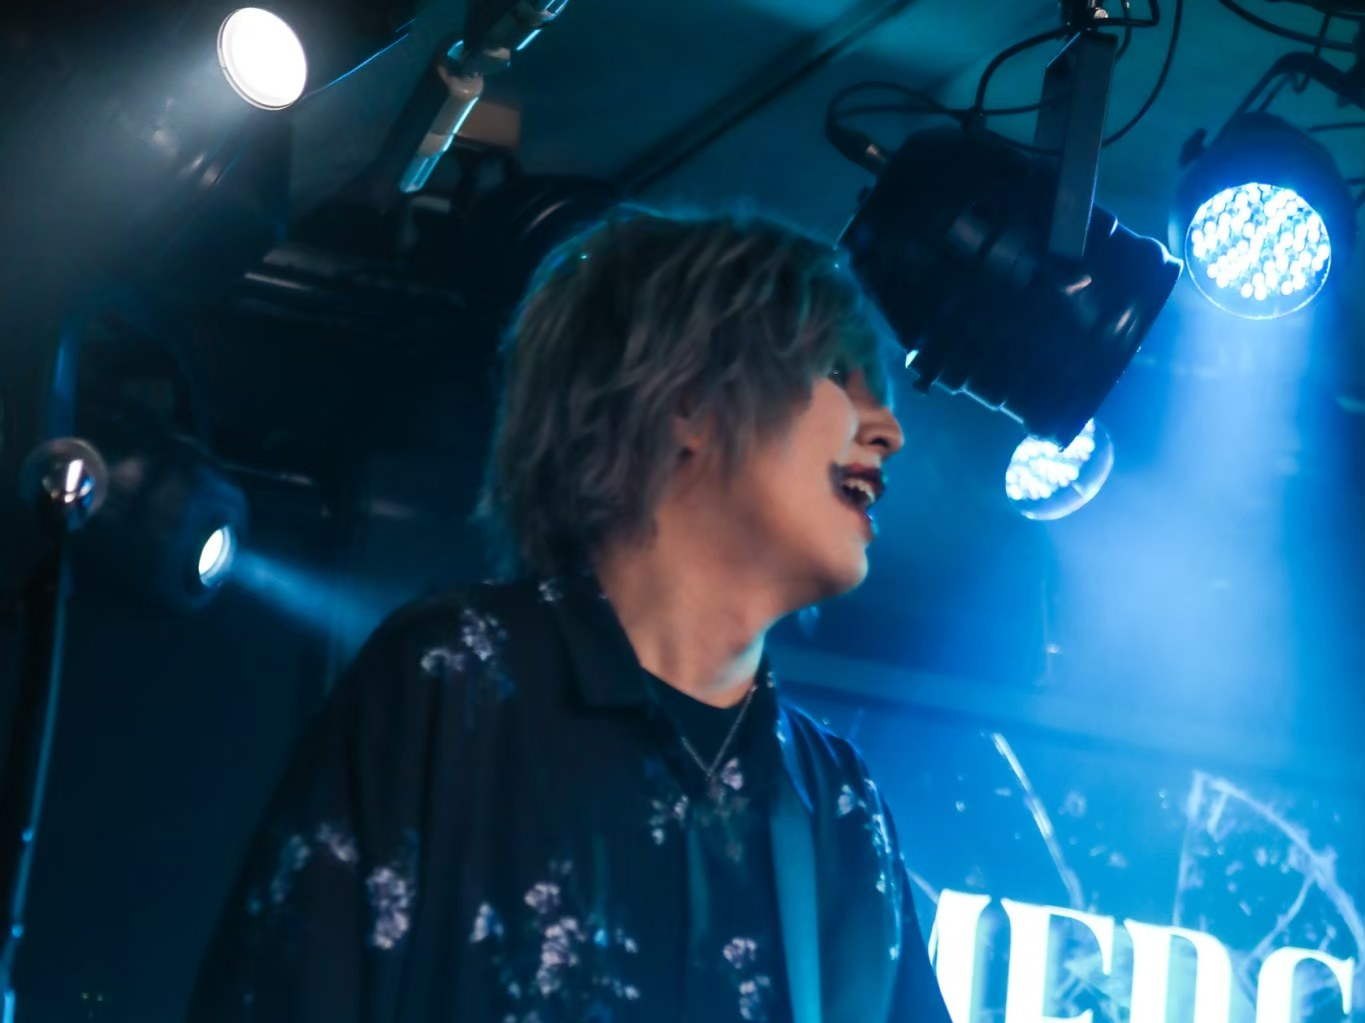
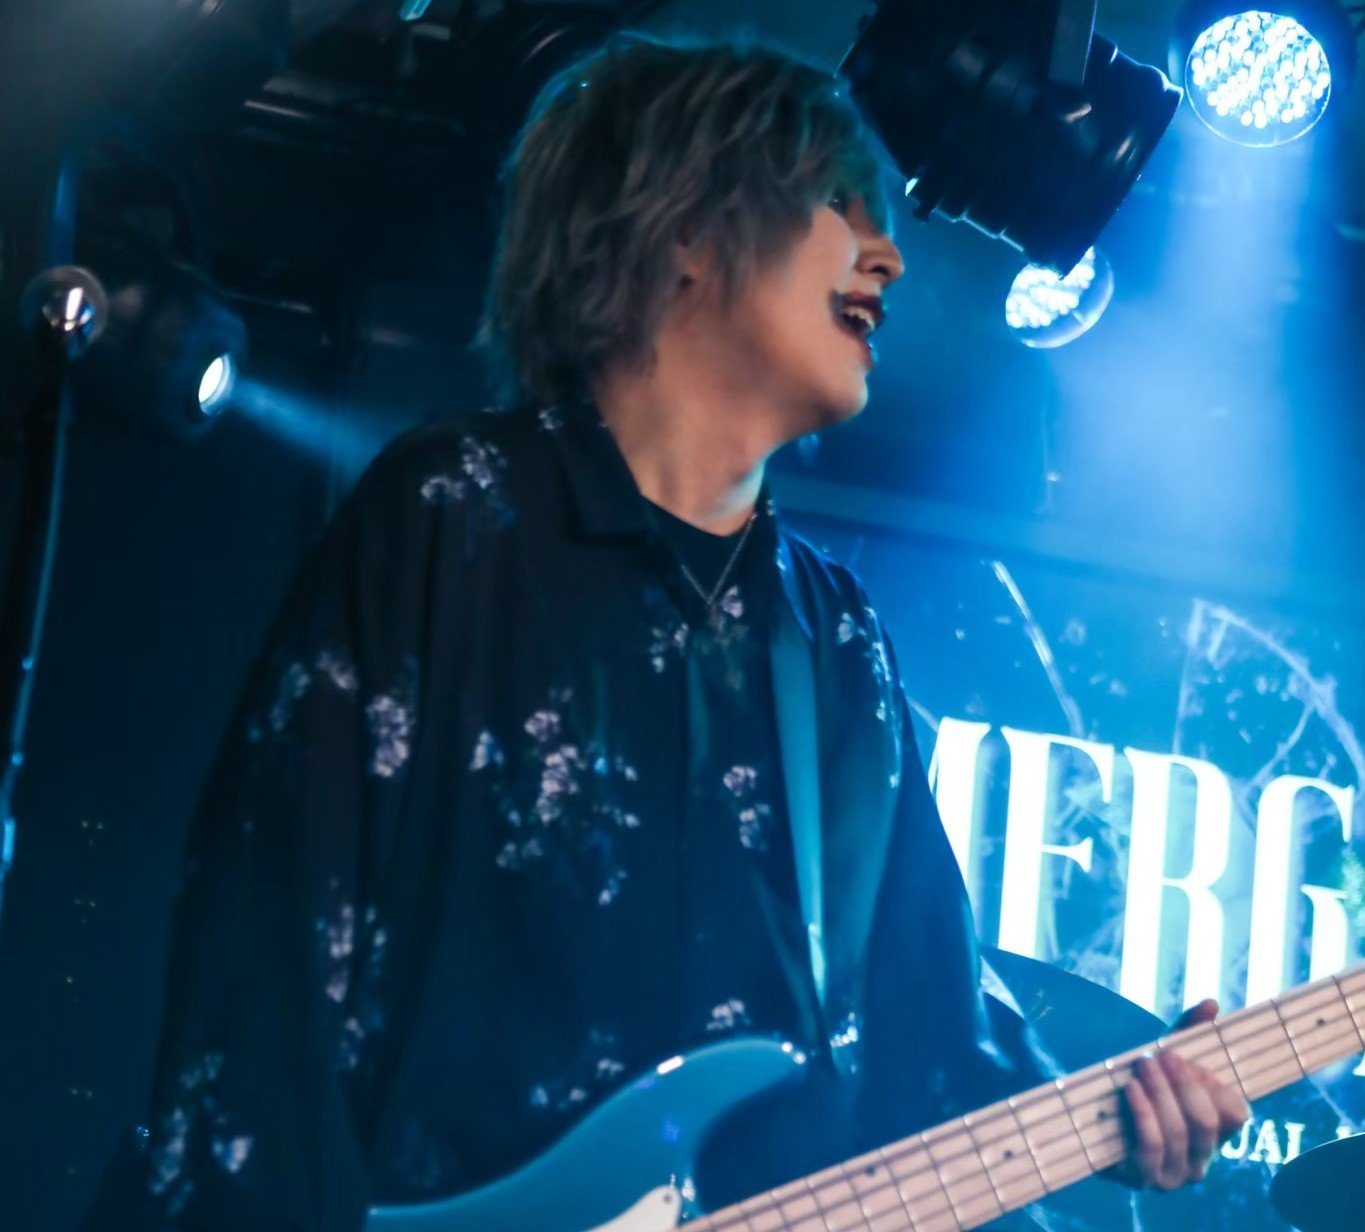
Update tagline and resync two re-cropped gallery photos
Footer tagline: "黄金期へ、鎮魂歌。" per feedback. Also picked up the
user's own re-cropped versions of two gallery photos (better face
framing) from the 写真集 source folder.

diff --git a/app/src/data/site-data.ts b/app/src/data/site-data.ts
@@ -10,7 +10,7 @@
 export const band = {
   name: "O'MERGE",
   nameJa: "オマージュ",
-  tagline: "闇に捧ぐ、様式美。",
+  tagline: "黄金期へ、鎮魂歌。",
 };
 
 export interface Member {
